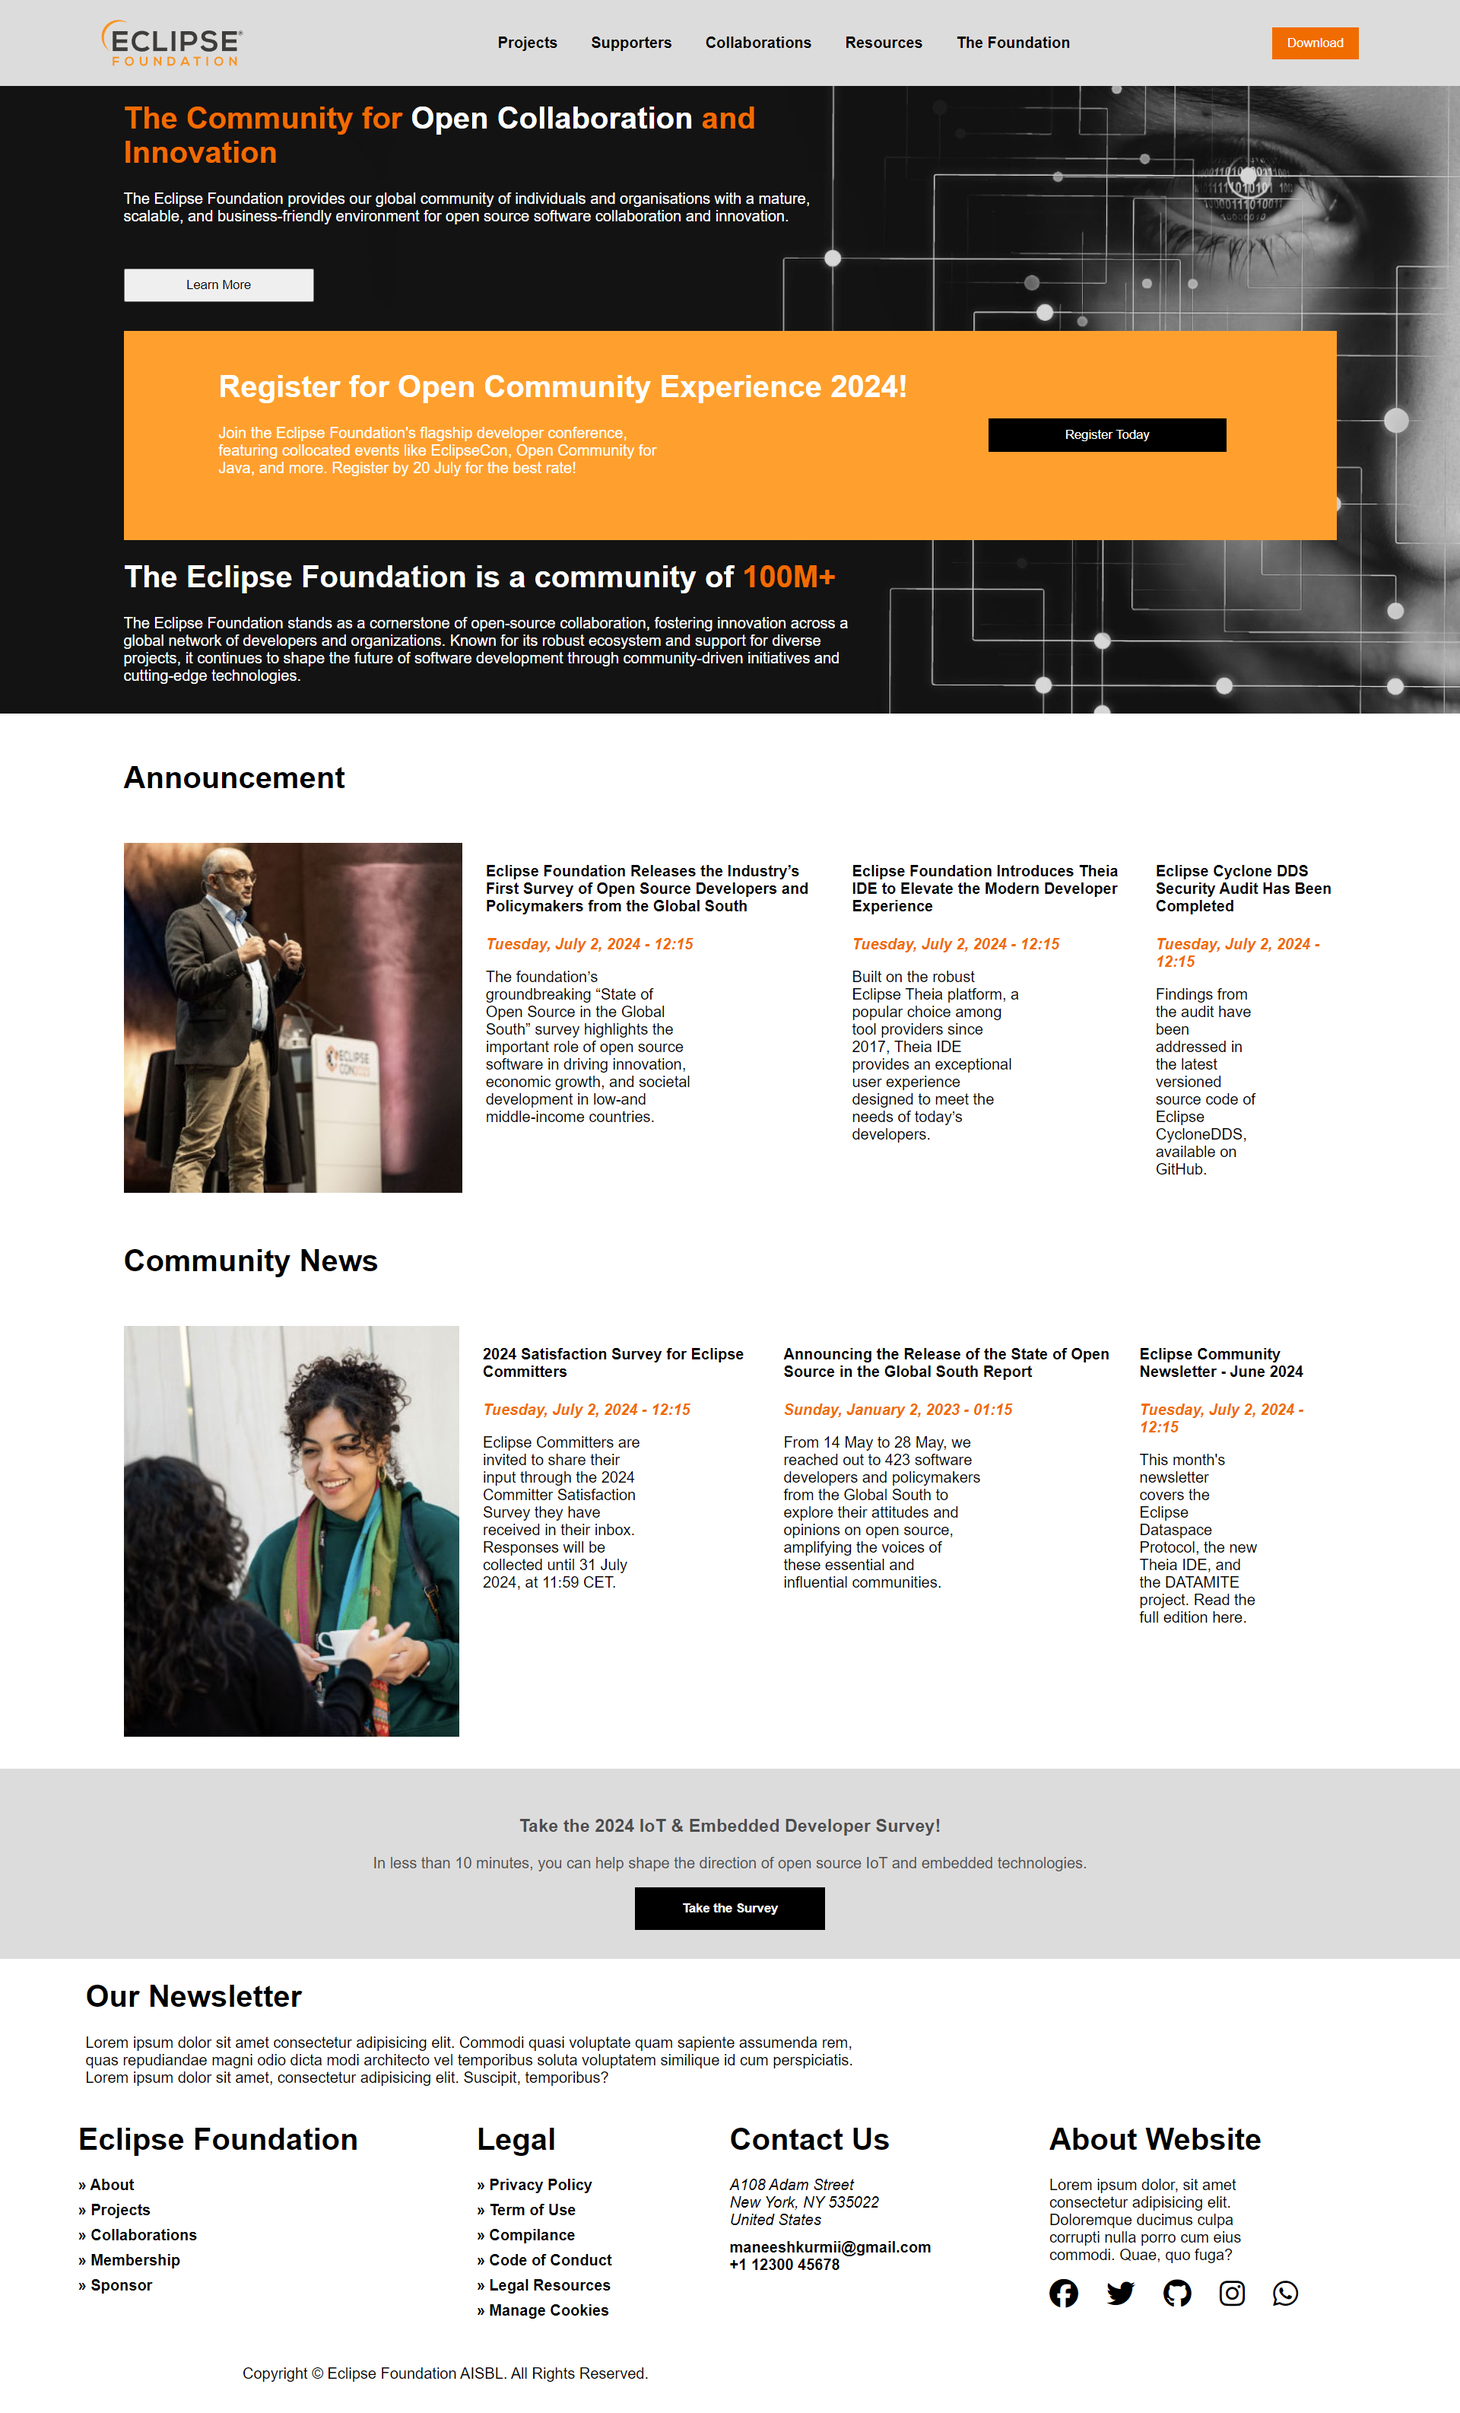
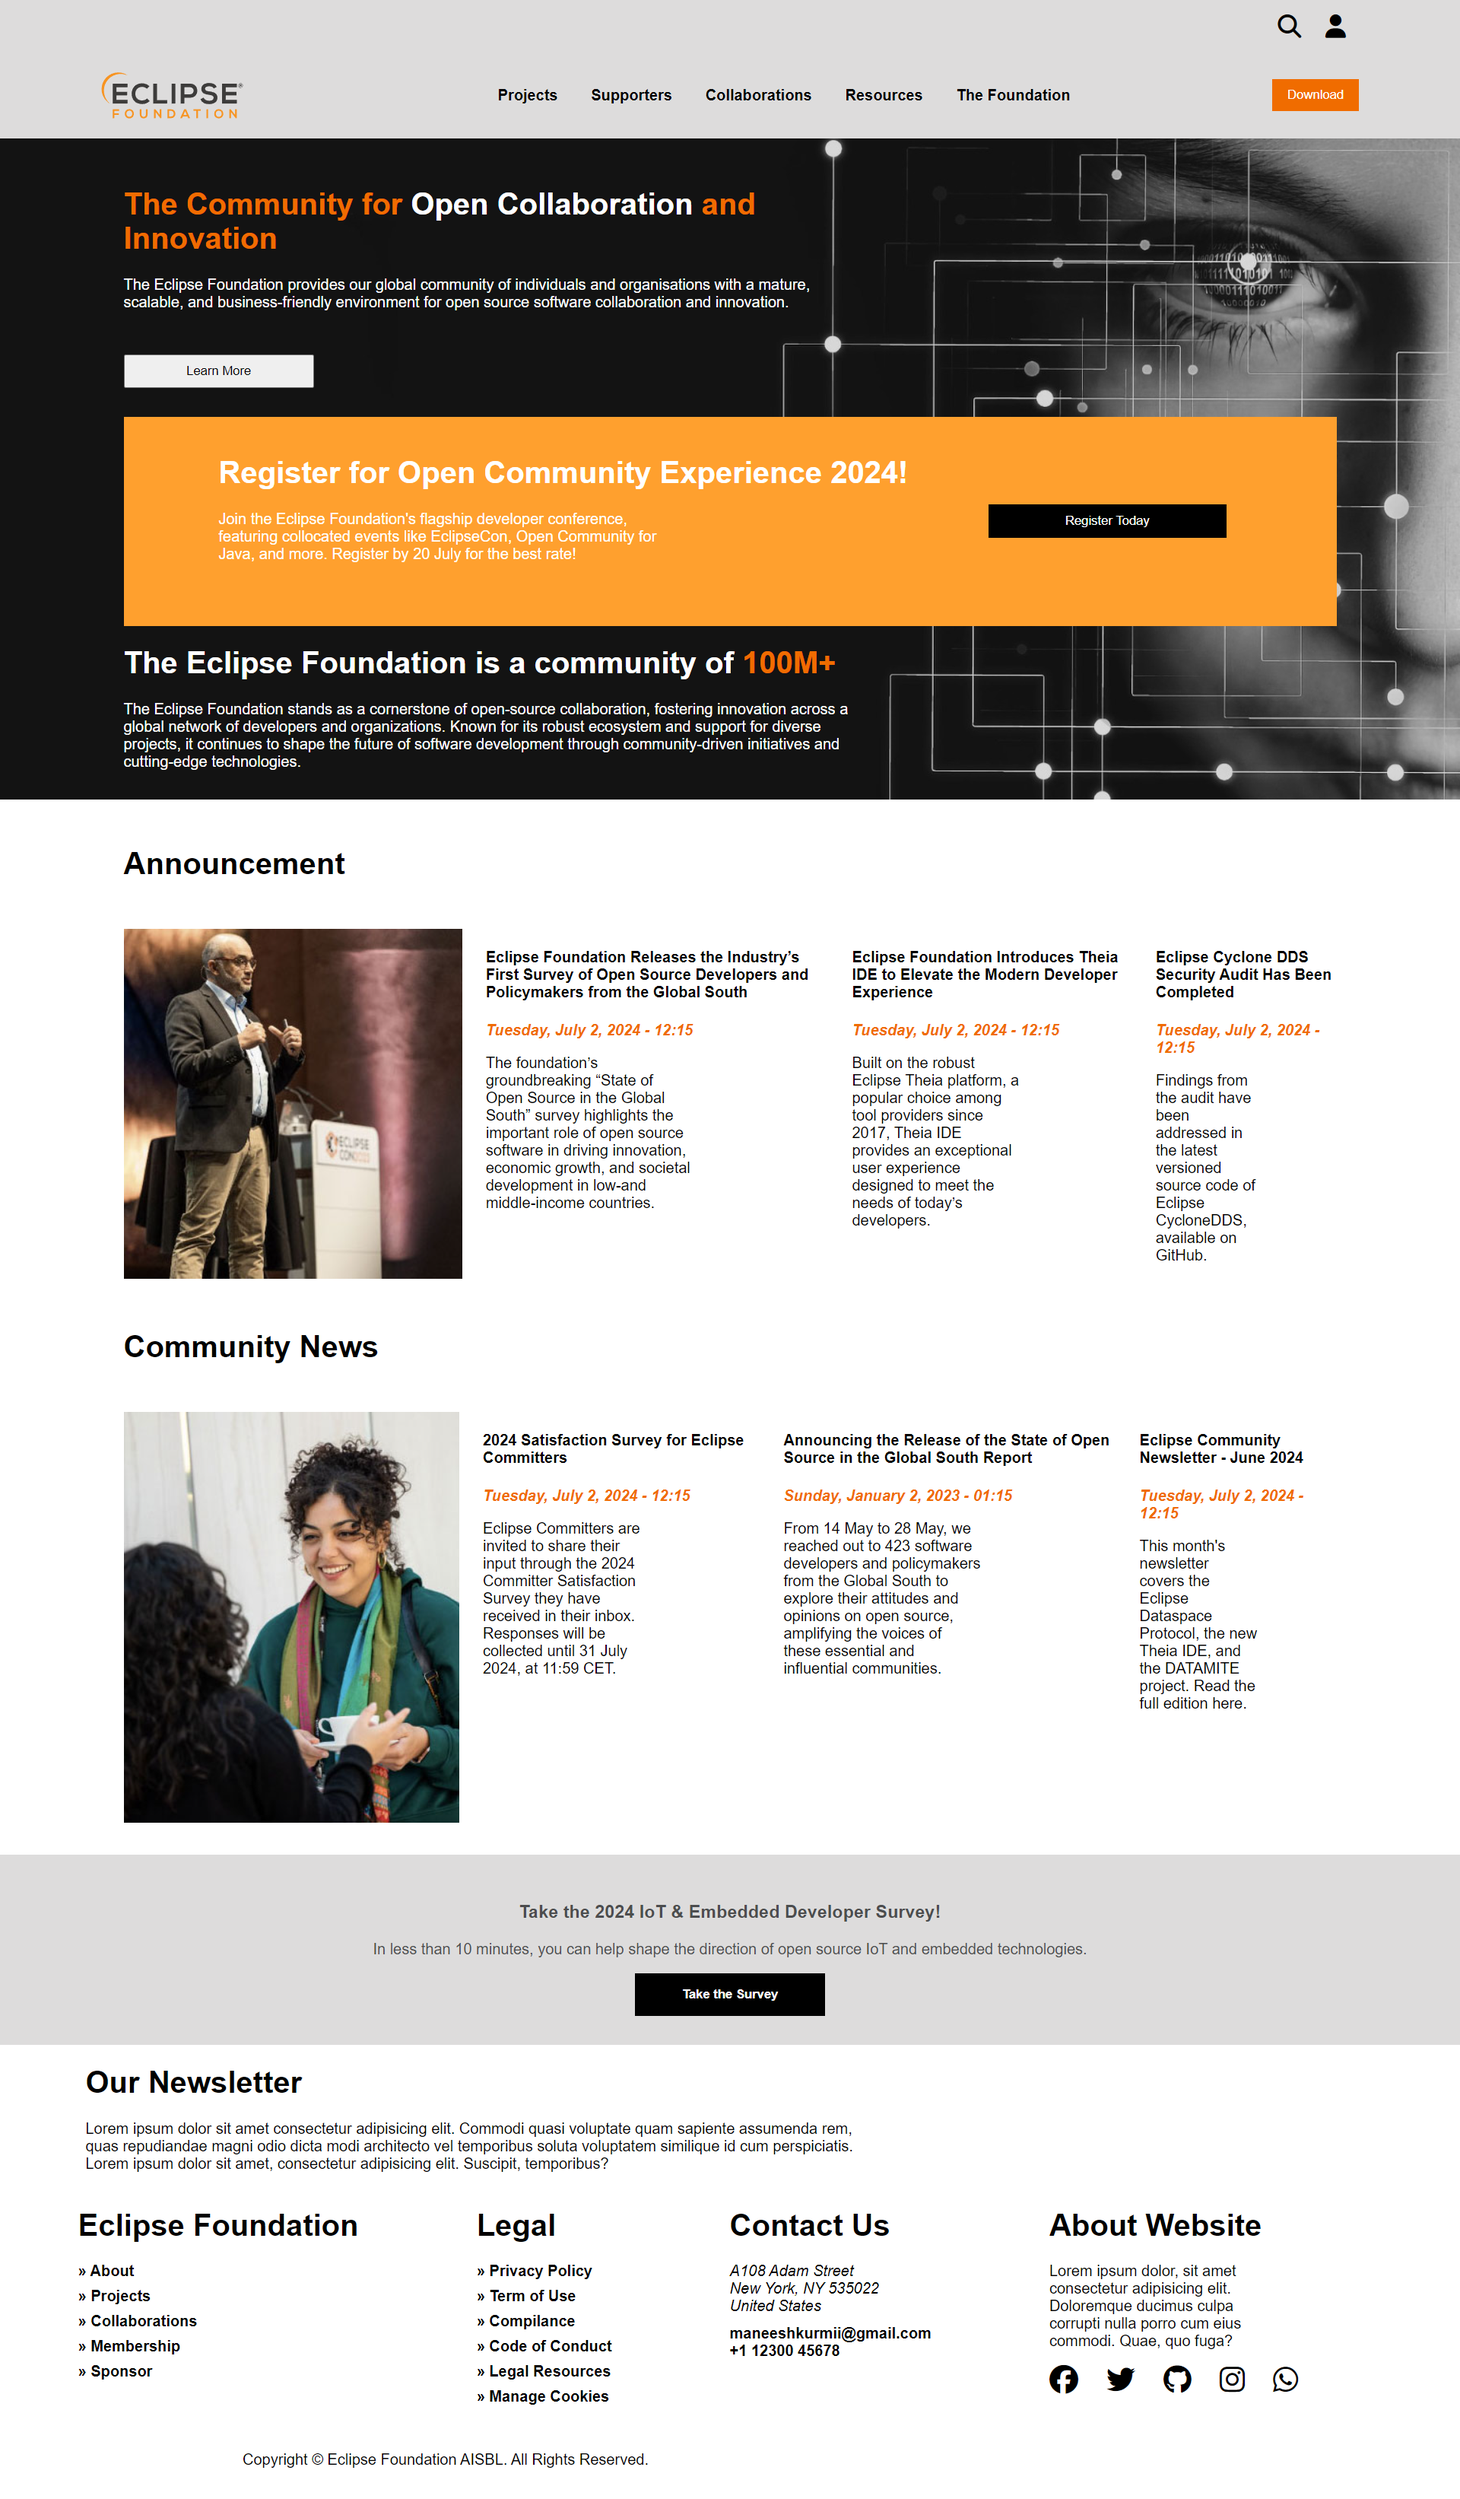
Update in demo image and some in html file

diff --git a/Eclipse - Dummy website demo/eclipse-style.css b/Eclipse - Dummy website demo/eclipse-style.css
@@ -22,9 +22,6 @@ header {
     align-items: center;
     justify-content: space-around;
     padding: 20px 0px 20px 0px;
-    position: fixed;
-    top: 0;
-    left: 0;
     background: #dddcdc;
     width: 100%;
 }
